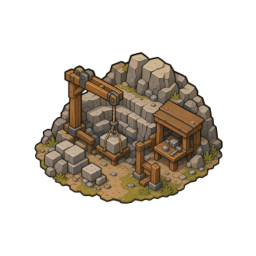
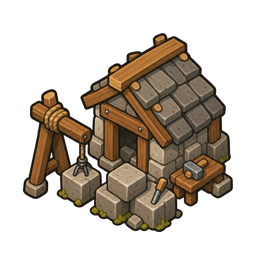
update

diff --git a/README.md b/README.md
@@ -132,8 +132,8 @@ Each generated island starts with a required central hub. Buildings require reso
 
 Buildings declare data-driven placement and adjacency behavior on their `BuildingDefinition`:
 
-- `required_terrain`: the terrain every footprint cell must sit on (grass by default).
-- `required_adjacent`: each entry must have at least one matching neighbor, or placement is blocked. For example, a logger's camp must be built next to a forest, and a quarry must be built next to stone.
+- `required_terrain`: the terrain every footprint cell must sit on. For example, a logger's camp is built on grass, while a quarry is built on stone.
+- `required_adjacent`: each entry must have at least one matching neighbor, or placement is blocked. For example, a logger's camp must be built next to a forest, and a quarry must be built next to a stone deposit.
 - `forbidden_adjacent`: placement is blocked if any neighbor matches.
 - `adjacency_yields`: Civilization VI style bonuses, where each neighbor matching a `{ kind, type, amount }` rule contributes `amount`. A logger's camp earns +1 per adjacent forest but -1 per adjacent logger's camp, while a quarry earns +1 per adjacent stone deposit but -1 per adjacent quarry.
 
